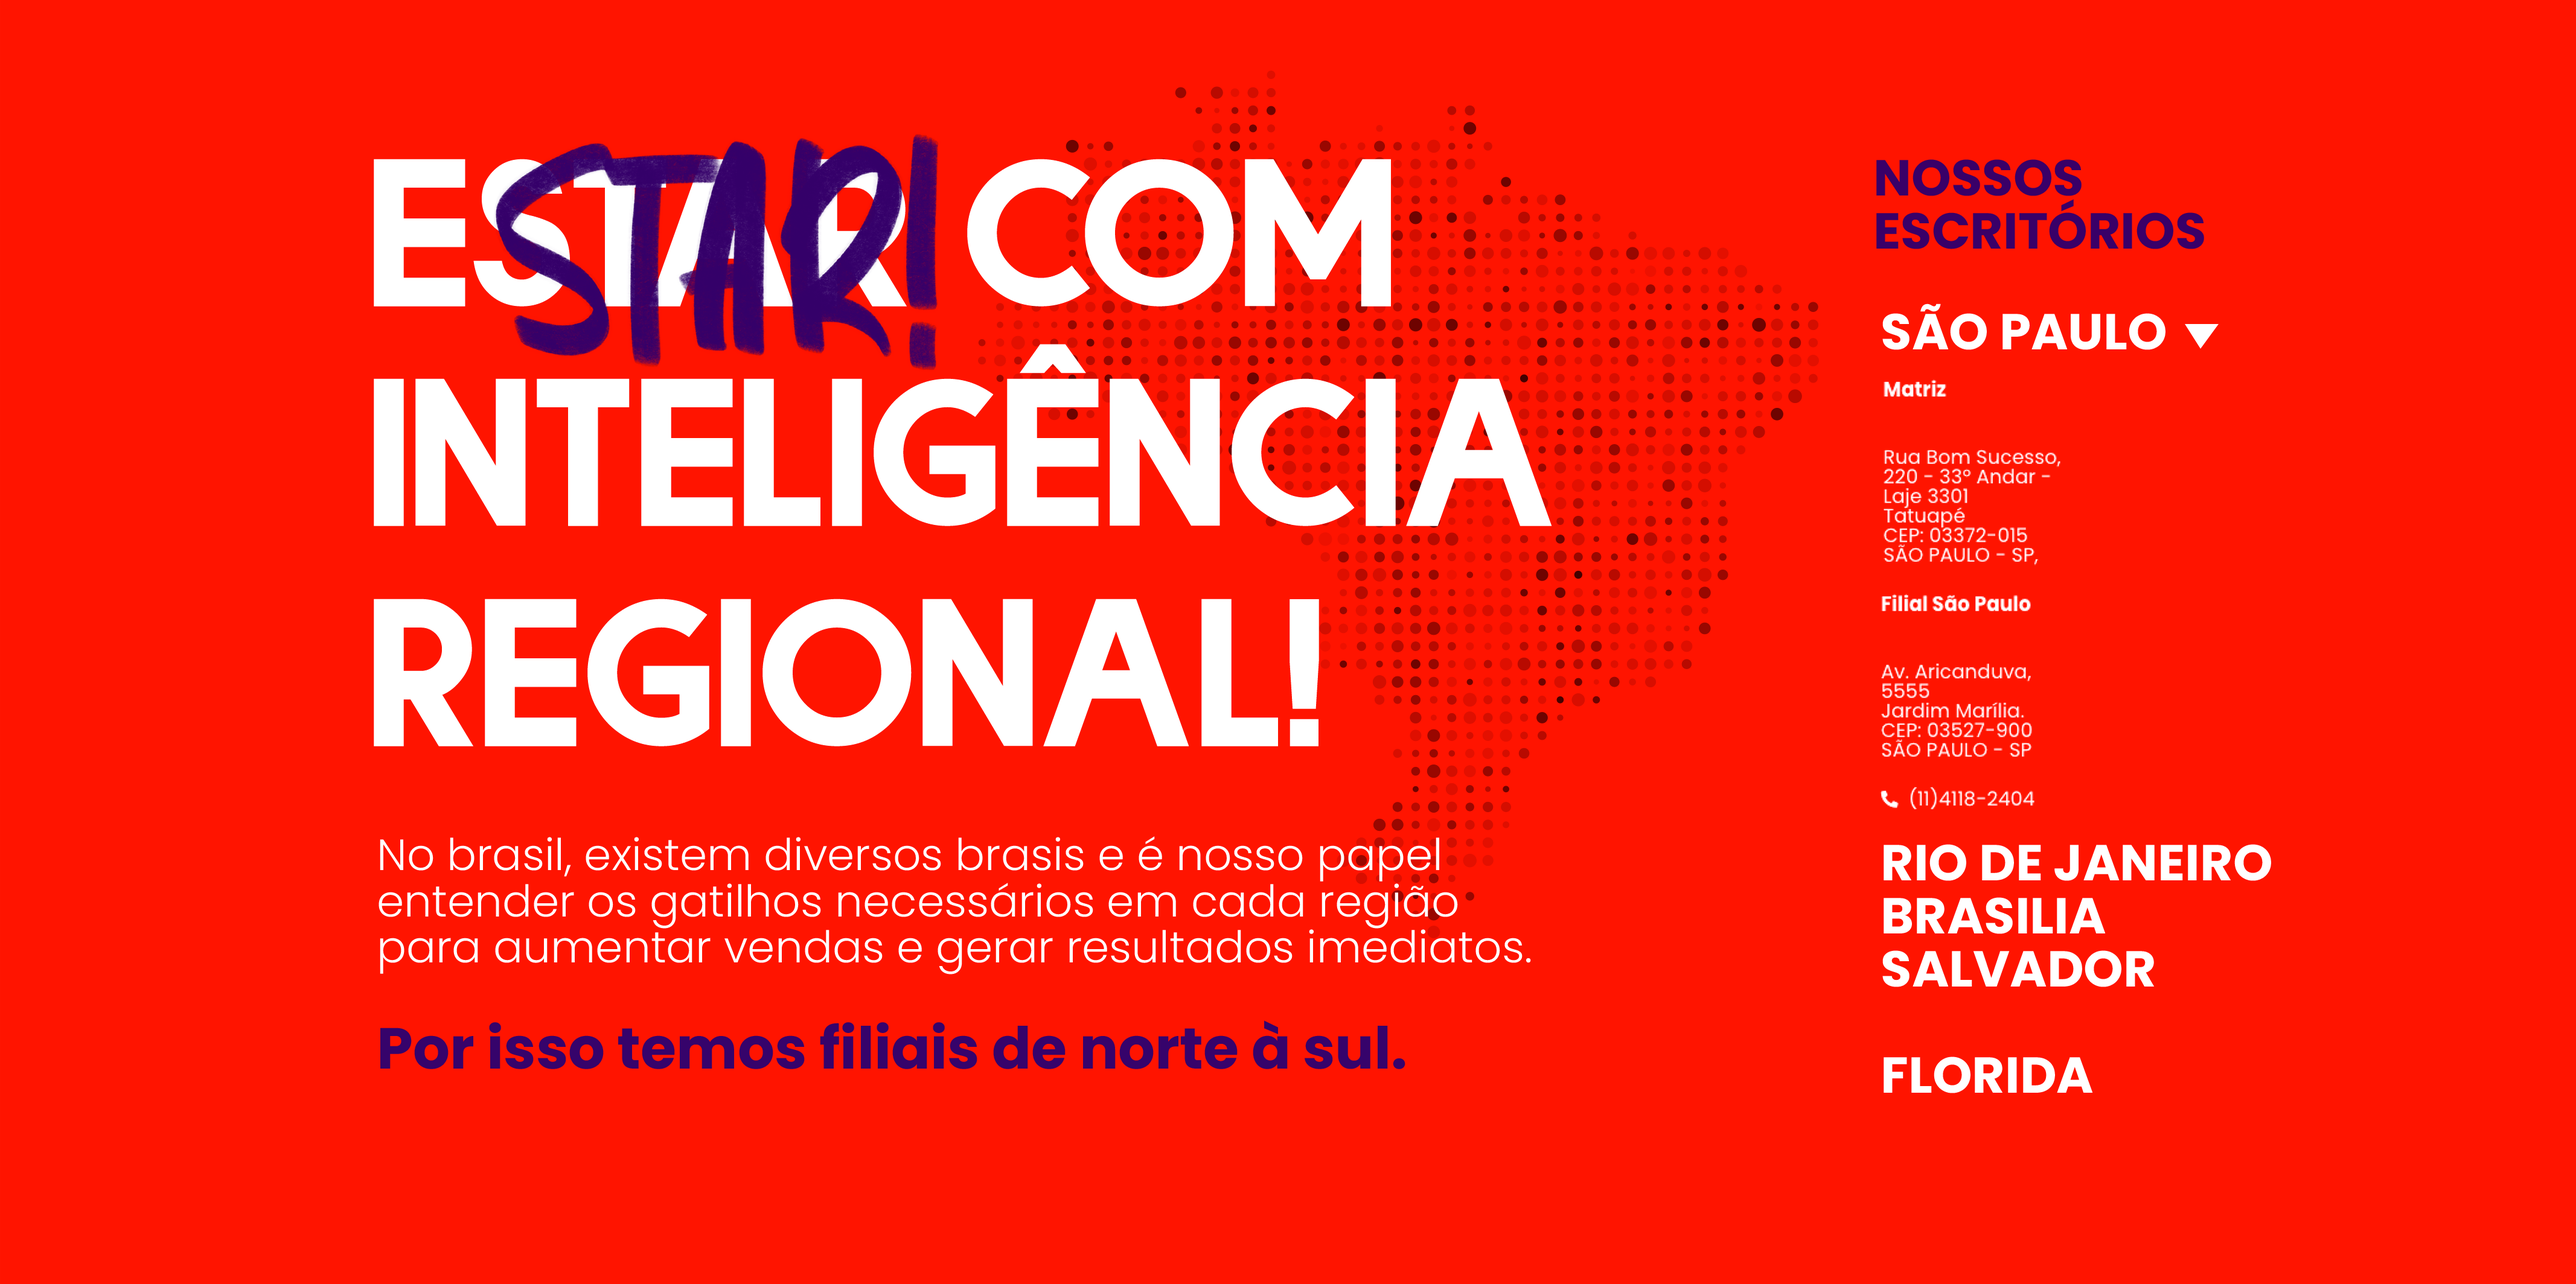
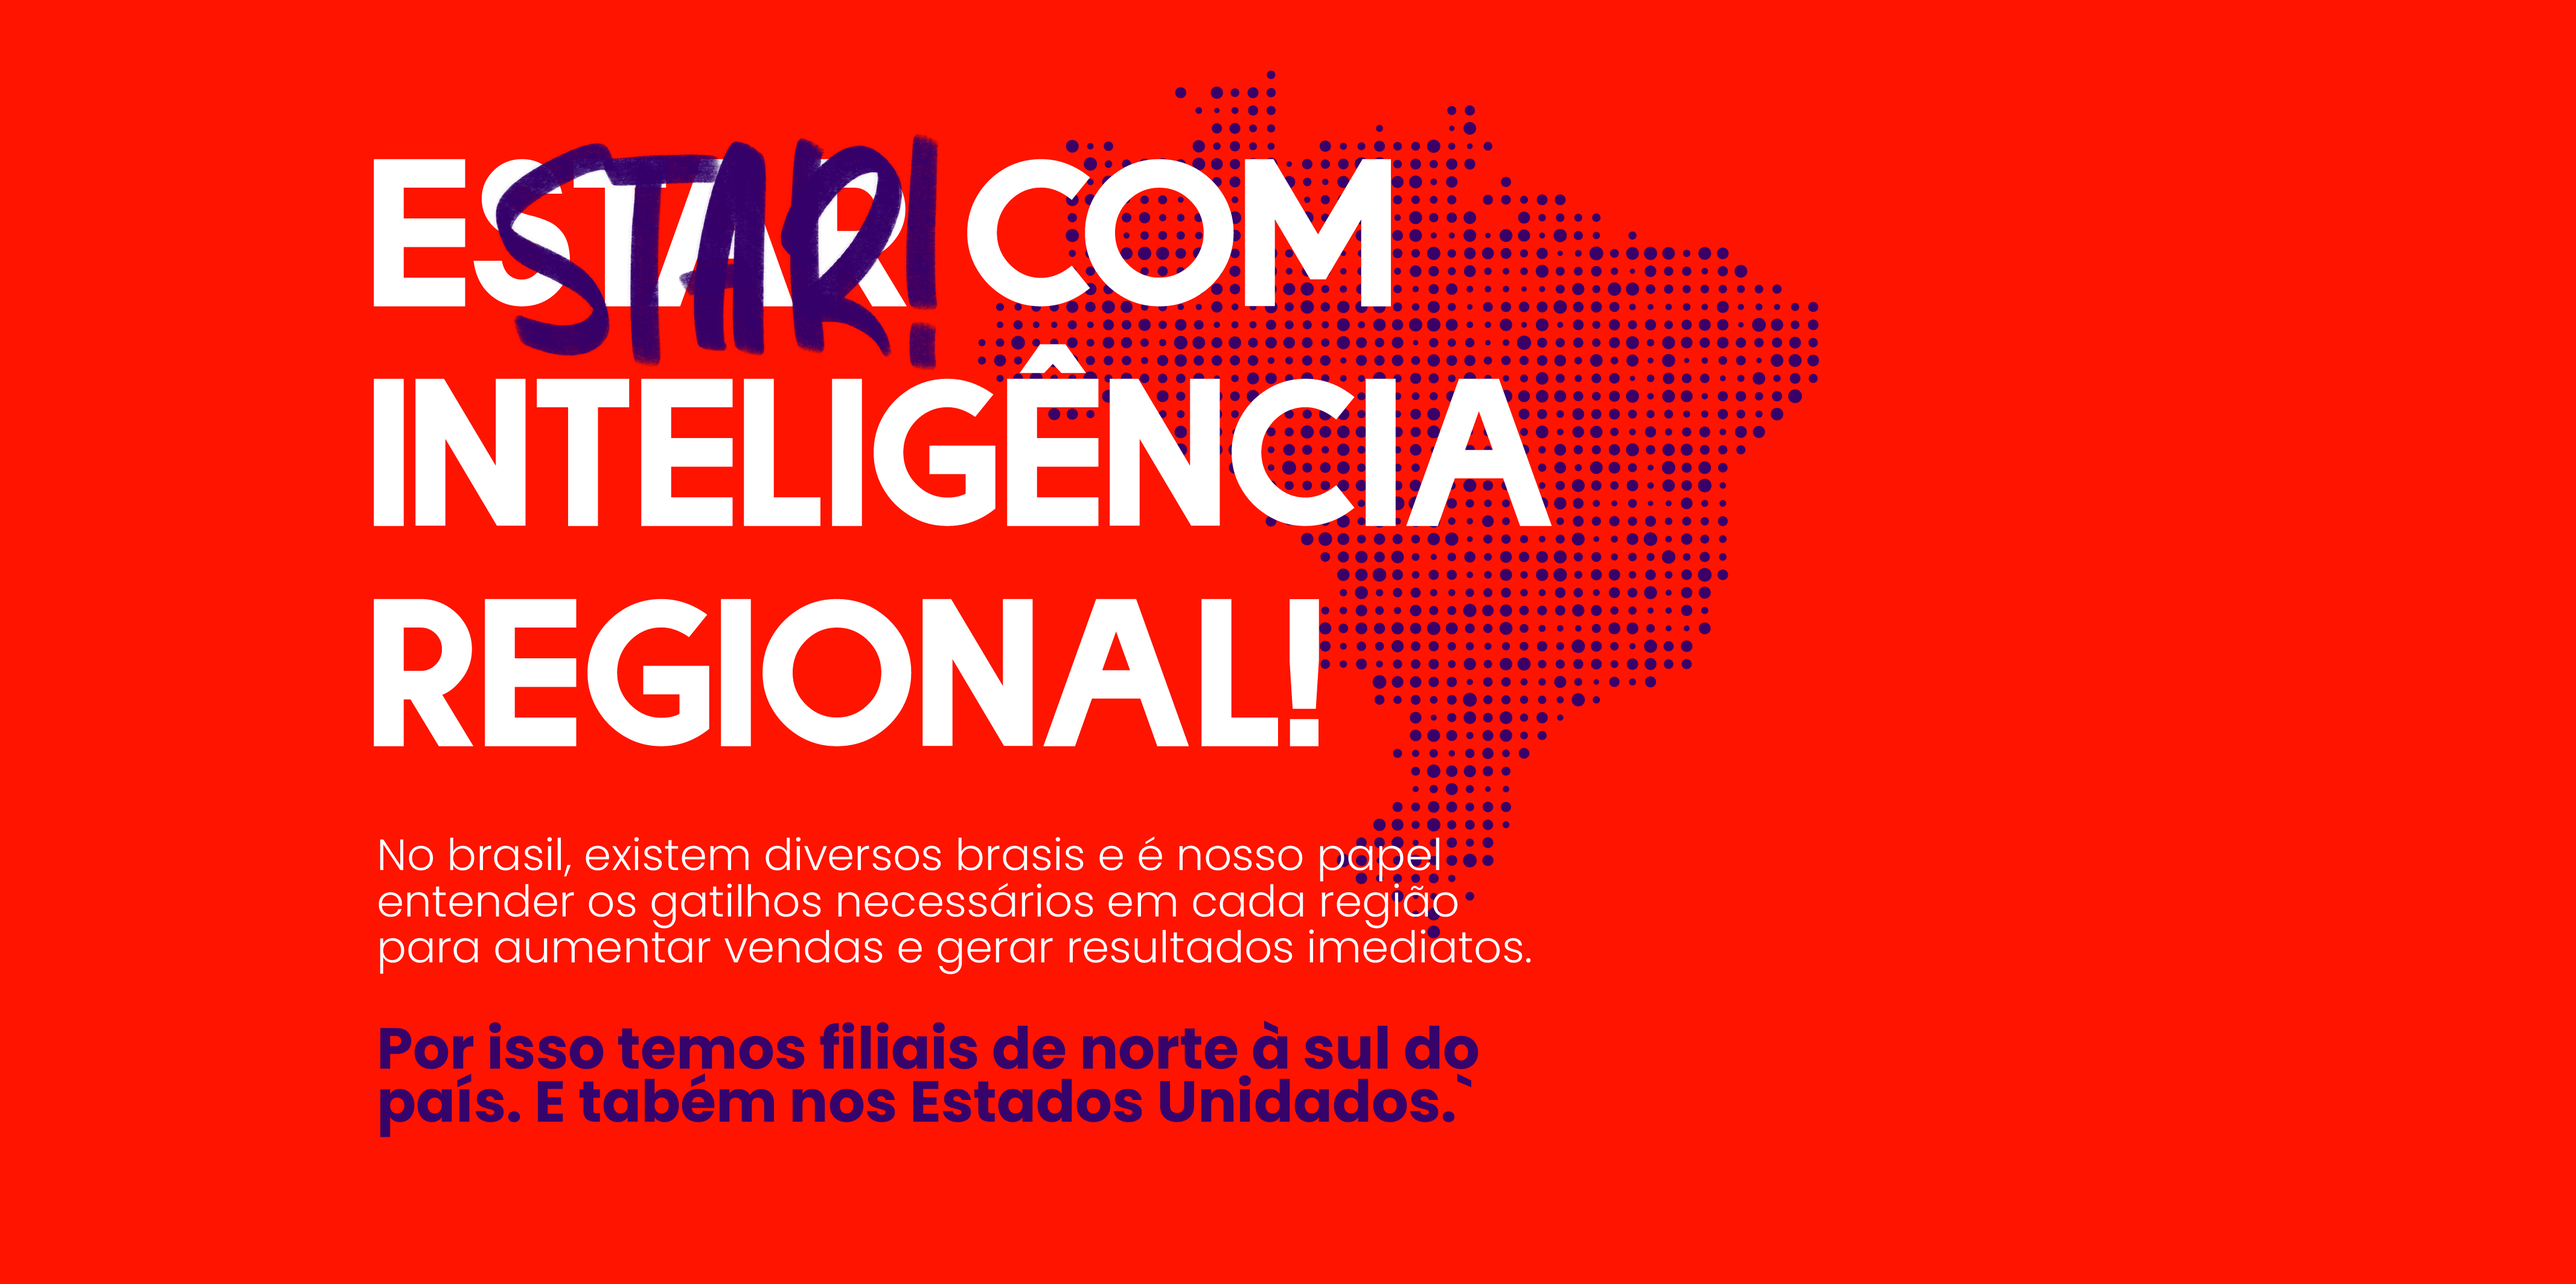
✨ Section 9 updated

diff --git a/index.html b/index.html
@@ -110,12 +110,110 @@
             </iframe>
         </div>
     </section>
-    <section id="SECTION_9">
-        <div>
-            <img src="assets/images/SECTION_9.png" alt="Section 9"
-                style="width: 100%; height: auto; display: block; image-rendering: auto;" />
+
+
+ <!-- SECTION 9 – escritórios -->
+<section id="SECTION_9" class="section-9">
+    <!-- background já existente -->
+    <img
+      src="assets/images/SECTION_9.png"
+      alt="Inteligência Regional"
+      class="bg-img"
+    />
+  
+    <!-- painel de escritórios (overlay à direita) -->
+    <div class="offices-panel">
+      <h3 class="panel-title">
+        <span>Nossos</span><br /><span>Escritórios</span>
+      </h3>
+  
+      <!-- =================== SÃO PAULO =================== -->
+      <div class="office-item">
+        <button class="office-toggle" aria-expanded="false">
+          <span>São Paulo</span>
+          <svg class="arrow" viewBox="0 0 24 24" aria-hidden="true">
+            <path d="M6 9l6 6 6-6" />
+          </svg>
+        </button>
+        <div class="office-content">
+          <h4>Matriz</h4>
+          <p>Av. Ver. Abel Ferreira, 1800<br />
+             Vila Reg. Feijó – Jd. Anália Franco<br />
+             03340-000
+          </p>
+  
+          <h4>Filial</h4>
+          <p>Av. Aricanduva, 5555<br />
+             Jardim Marília<br />
+             03527-900
+          </p>
         </div>
-    </section>
+      </div>
+  
+      <!-- =================== RIO DE JANEIRO =================== -->
+      <div class="office-item">
+        <button class="office-toggle" aria-expanded="false">
+          <span>Rio de Janeiro</span>
+          <svg class="arrow" viewBox="0 0 24 24"><path d="M6 9l6 6 6-6"/></svg>
+        </button>
+        <div class="office-content">
+          <h4>Filial</h4>
+          <p>Av. Ayrton Senna, 6000<br />
+             Jacarepaguá<br />
+             22775-005
+          </p>
+        </div>
+      </div>
+  
+      <!-- =================== BRASÍLIA =================== -->
+      <div class="office-item">
+        <button class="office-toggle" aria-expanded="false">
+          <span>Brasília</span>
+          <svg class="arrow" viewBox="0 0 24 24"><path d="M6 9l6 6 6-6"/></svg>
+        </button>
+        <div class="office-content">
+          <h4>Filial</h4>
+          <p>QS 9, 100&nbsp;· Lote 4&nbsp;Área<br />
+             (Pistão Sul – EPNB)<br />
+             71976-370
+          </p>
+        </div>
+      </div>
+  
+      <!-- =================== SALVADOR =================== -->
+      <div class="office-item">
+        <button class="office-toggle" aria-expanded="false">
+          <span>Salvador</span>
+          <svg class="arrow" viewBox="0 0 24 24"><path d="M6 9l6 6 6-6"/></svg>
+        </button>
+        <div class="office-content">
+          <h4>Filial</h4>
+          <p>Av. Luís Viana Filho, 3056 – Loja<br />
+             Trecho A Imbuí<br />
+             41720-200
+          </p>
+        </div>
+      </div>
+  
+      <!-- =================== FLORIDA =================== -->
+      <div class="office-item">
+        <button class="office-toggle" aria-expanded="false">
+          <span>Florida</span>
+          <svg class="arrow" viewBox="0 0 24 24"><path d="M6 9l6 6 6-6"/></svg>
+        </button>
+        <div class="office-content">
+          <h4>Filial</h4>
+          <p>759 SW Federal Highway<br />
+             Suite 304, Stuart<br />
+             Florida 34994
+          </p>
+        </div>
+      </div>
+    </div>
+  </section>
+  
+
+    
     <section id="SECTION_8">
         <div style="position: relative; width: 100%;">
             <img src="assets/images/SECTION_8.png" alt="Section 8"
@@ -251,6 +349,7 @@
     <script src="assets/js/menu-toggle.js"></script>
     <script src="assets/js/counting-up.js"></script>
     <script src="assets/js/middle-animation.js"></script>
+    <script src="assets/js/expandable-texts.js"></script>
 </body>
 
 </html>

diff --git a/assets/css/styles.css b/assets/css/styles.css
@@ -853,6 +853,127 @@ SECTION 3 */
 
 
 
+/* SECTION 9 */
+
+/* ====== bloco geral ====== */
+.section-9 {
+  position: relative;
+  width: 100%;
+  overflow: hidden;
+}
+.section-9 .bg-img {
+  width: 100%;
+  height: auto;
+  display: block;
+}
+
+.offices-panel {
+  position: absolute;
+  right: 4vw;
+  top: 8vh;
+  max-width: 260px;
+  color: #ffffff;
+  font-family: 'Poppins Regular', sans-serif;
+  z-index: 2;
+}
+
+/* título */
+.panel-title {
+  font-family: 'Poppins Bold', sans-serif;
+  font-size: clamp(1.2rem, 2.6vw, 1.6rem);
+  line-height: 1.15;
+  color: #380767;
+  margin-bottom: 1.25rem;
+}
+
+/* botão toggle */
+.office-toggle {
+  all: unset;
+  cursor: pointer;
+  display: flex;
+  justify-content: space-between;
+  align-items: center;
+  width: 100%;
+  font-family: 'Poppins Bold', sans-serif;
+  font-size: clamp(1rem, 2.2vw, 1.2rem);
+  color: #ffffff;
+}
+
+/* conteúdo expandido */
+.office-content {
+  overflow: hidden;
+  max-height: 0;
+  transition: max-height 0.4s ease;
+  font-family: 'Poppins Regular', sans-serif;
+  font-size: clamp(0.8rem, 1.6vw, 0.95rem);
+  line-height: 1.4;
+  padding-right: 0.2rem;
+}
+
+.office-content h4 {
+  margin: 0.75rem 0 0.25rem;
+  font-family: 'Poppins Bold', sans-serif;
+  font-size: 0.825rem;
+}
+.office-content p {
+  margin: 0 0 0.6rem;
+}
+
+/* SETINHA */
+.office-toggle .arrow {
+  width: 18px;
+  height: 18px;
+  fill: none;
+  stroke: currentColor;
+  stroke-width: 3;
+  transition: transform 0.3s;
+}
+.office-toggle[aria-expanded="true"] .arrow {
+  transform: rotate(180deg);
+}
+
+
+@media (max-width: 768px) {
+
+  #SECTION_9 {
+    background-color: #ff0000 !important;
+  }
+
+
+  .offices-panel {
+    position: relative;
+    top: unset;
+    right: unset;
+    left: unset;
+    bottom: 20px;
+    margin: 2rem auto 1rem;
+    padding: 0 1.2rem;
+    max-width: 90%;
+    background-color: #ff0000; /* fundo correto para mobile */
+  }
+
+  .panel-title {
+    text-align: center;
+    font-size: 1.5rem;
+    line-height: 1.2;
+    margin-bottom: 1.5rem;
+  }
+
+  .office-toggle {
+    font-size: 1.1rem;
+  }
+
+  .office-content {
+    font-size: 0.95rem;
+    line-height: 1.45;
+  }
+}
+
+
+
+
+
+
 /* SECTION 10 */
 
 

diff --git a/assets/js/expandable-texts.js b/assets/js/expandable-texts.js
@@ -1,0 +1,23 @@
+// SECTION 9 – animação de acordeão
+document.querySelectorAll(".office-toggle").forEach(btn => {
+    btn.addEventListener("click", () => {
+      const expanded = btn.getAttribute("aria-expanded") === "true";
+  
+      // se quiser só um aberto por vez, feche todos antes
+      document.querySelectorAll(".office-toggle").forEach(b => {
+        b.setAttribute("aria-expanded", "false");
+        b.nextElementSibling.style.maxHeight = 0;
+      });
+  
+      // abrir ou fechar o clicado
+      btn.setAttribute("aria-expanded", !expanded);
+      const content = btn.nextElementSibling;
+      if (!expanded) {
+        // mede a altura total do conteúdo para abrir
+        content.style.maxHeight = content.scrollHeight + "px";
+      } else {
+        content.style.maxHeight = 0;
+      }
+    });
+  });
+  
